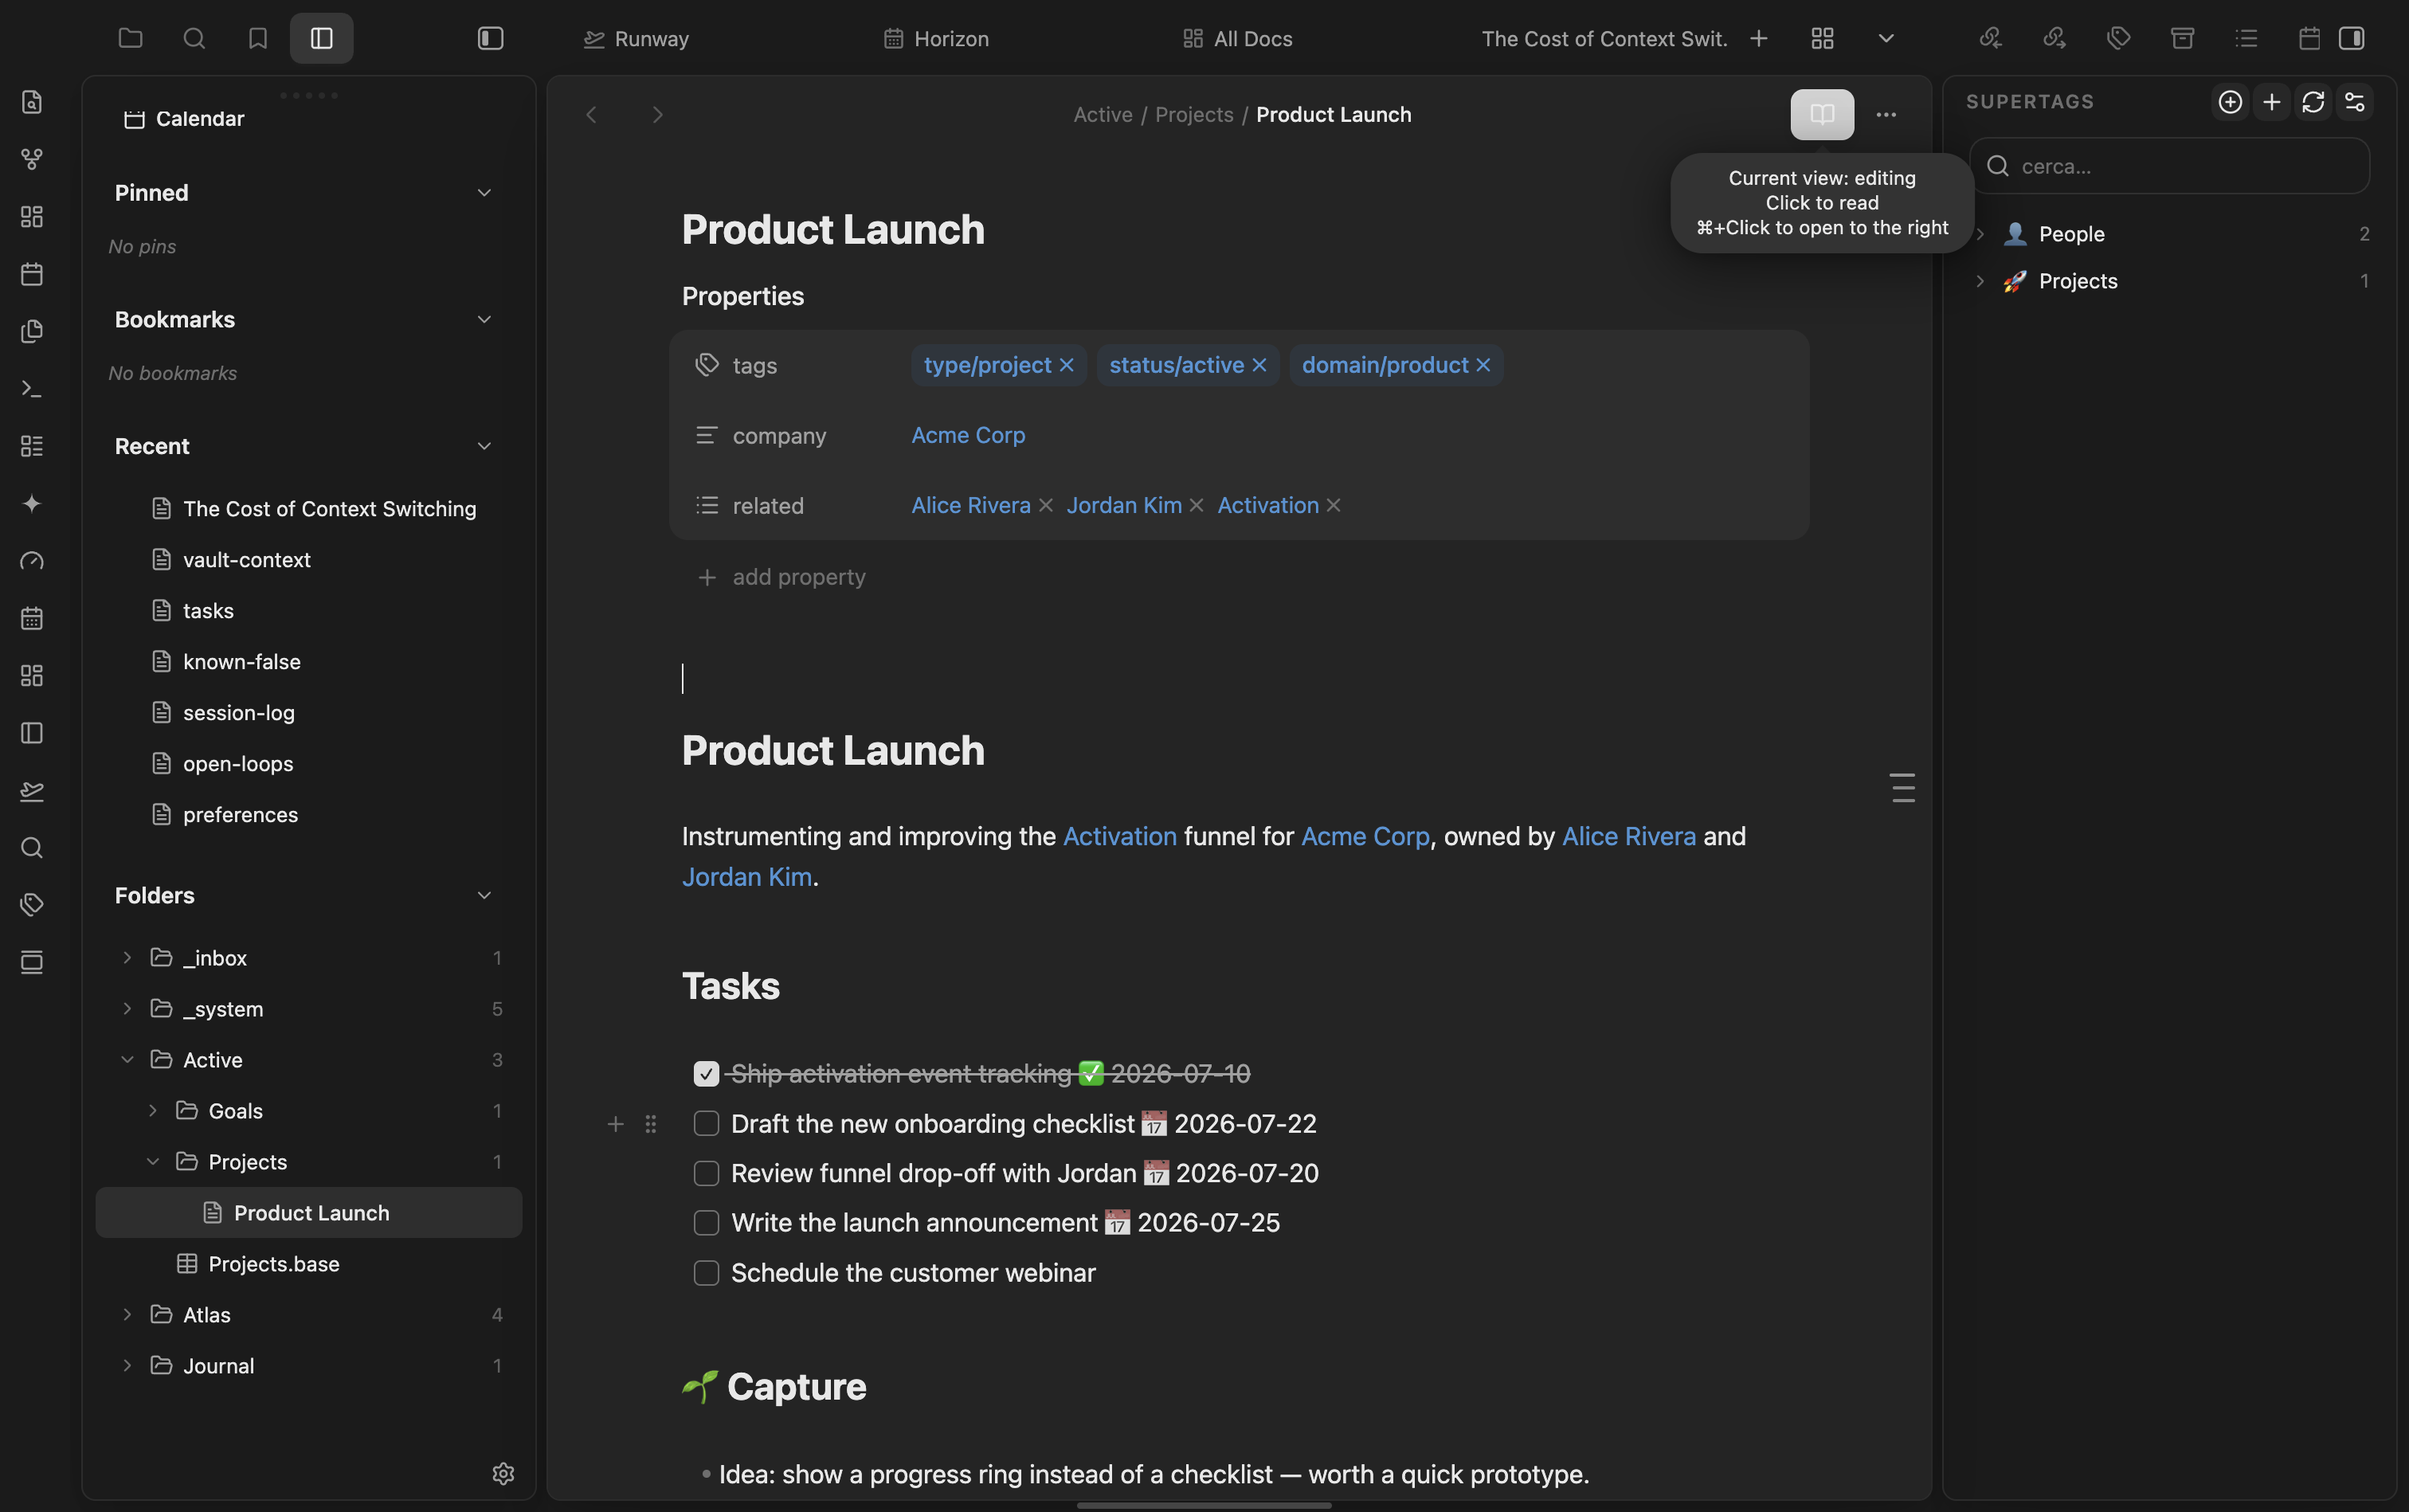
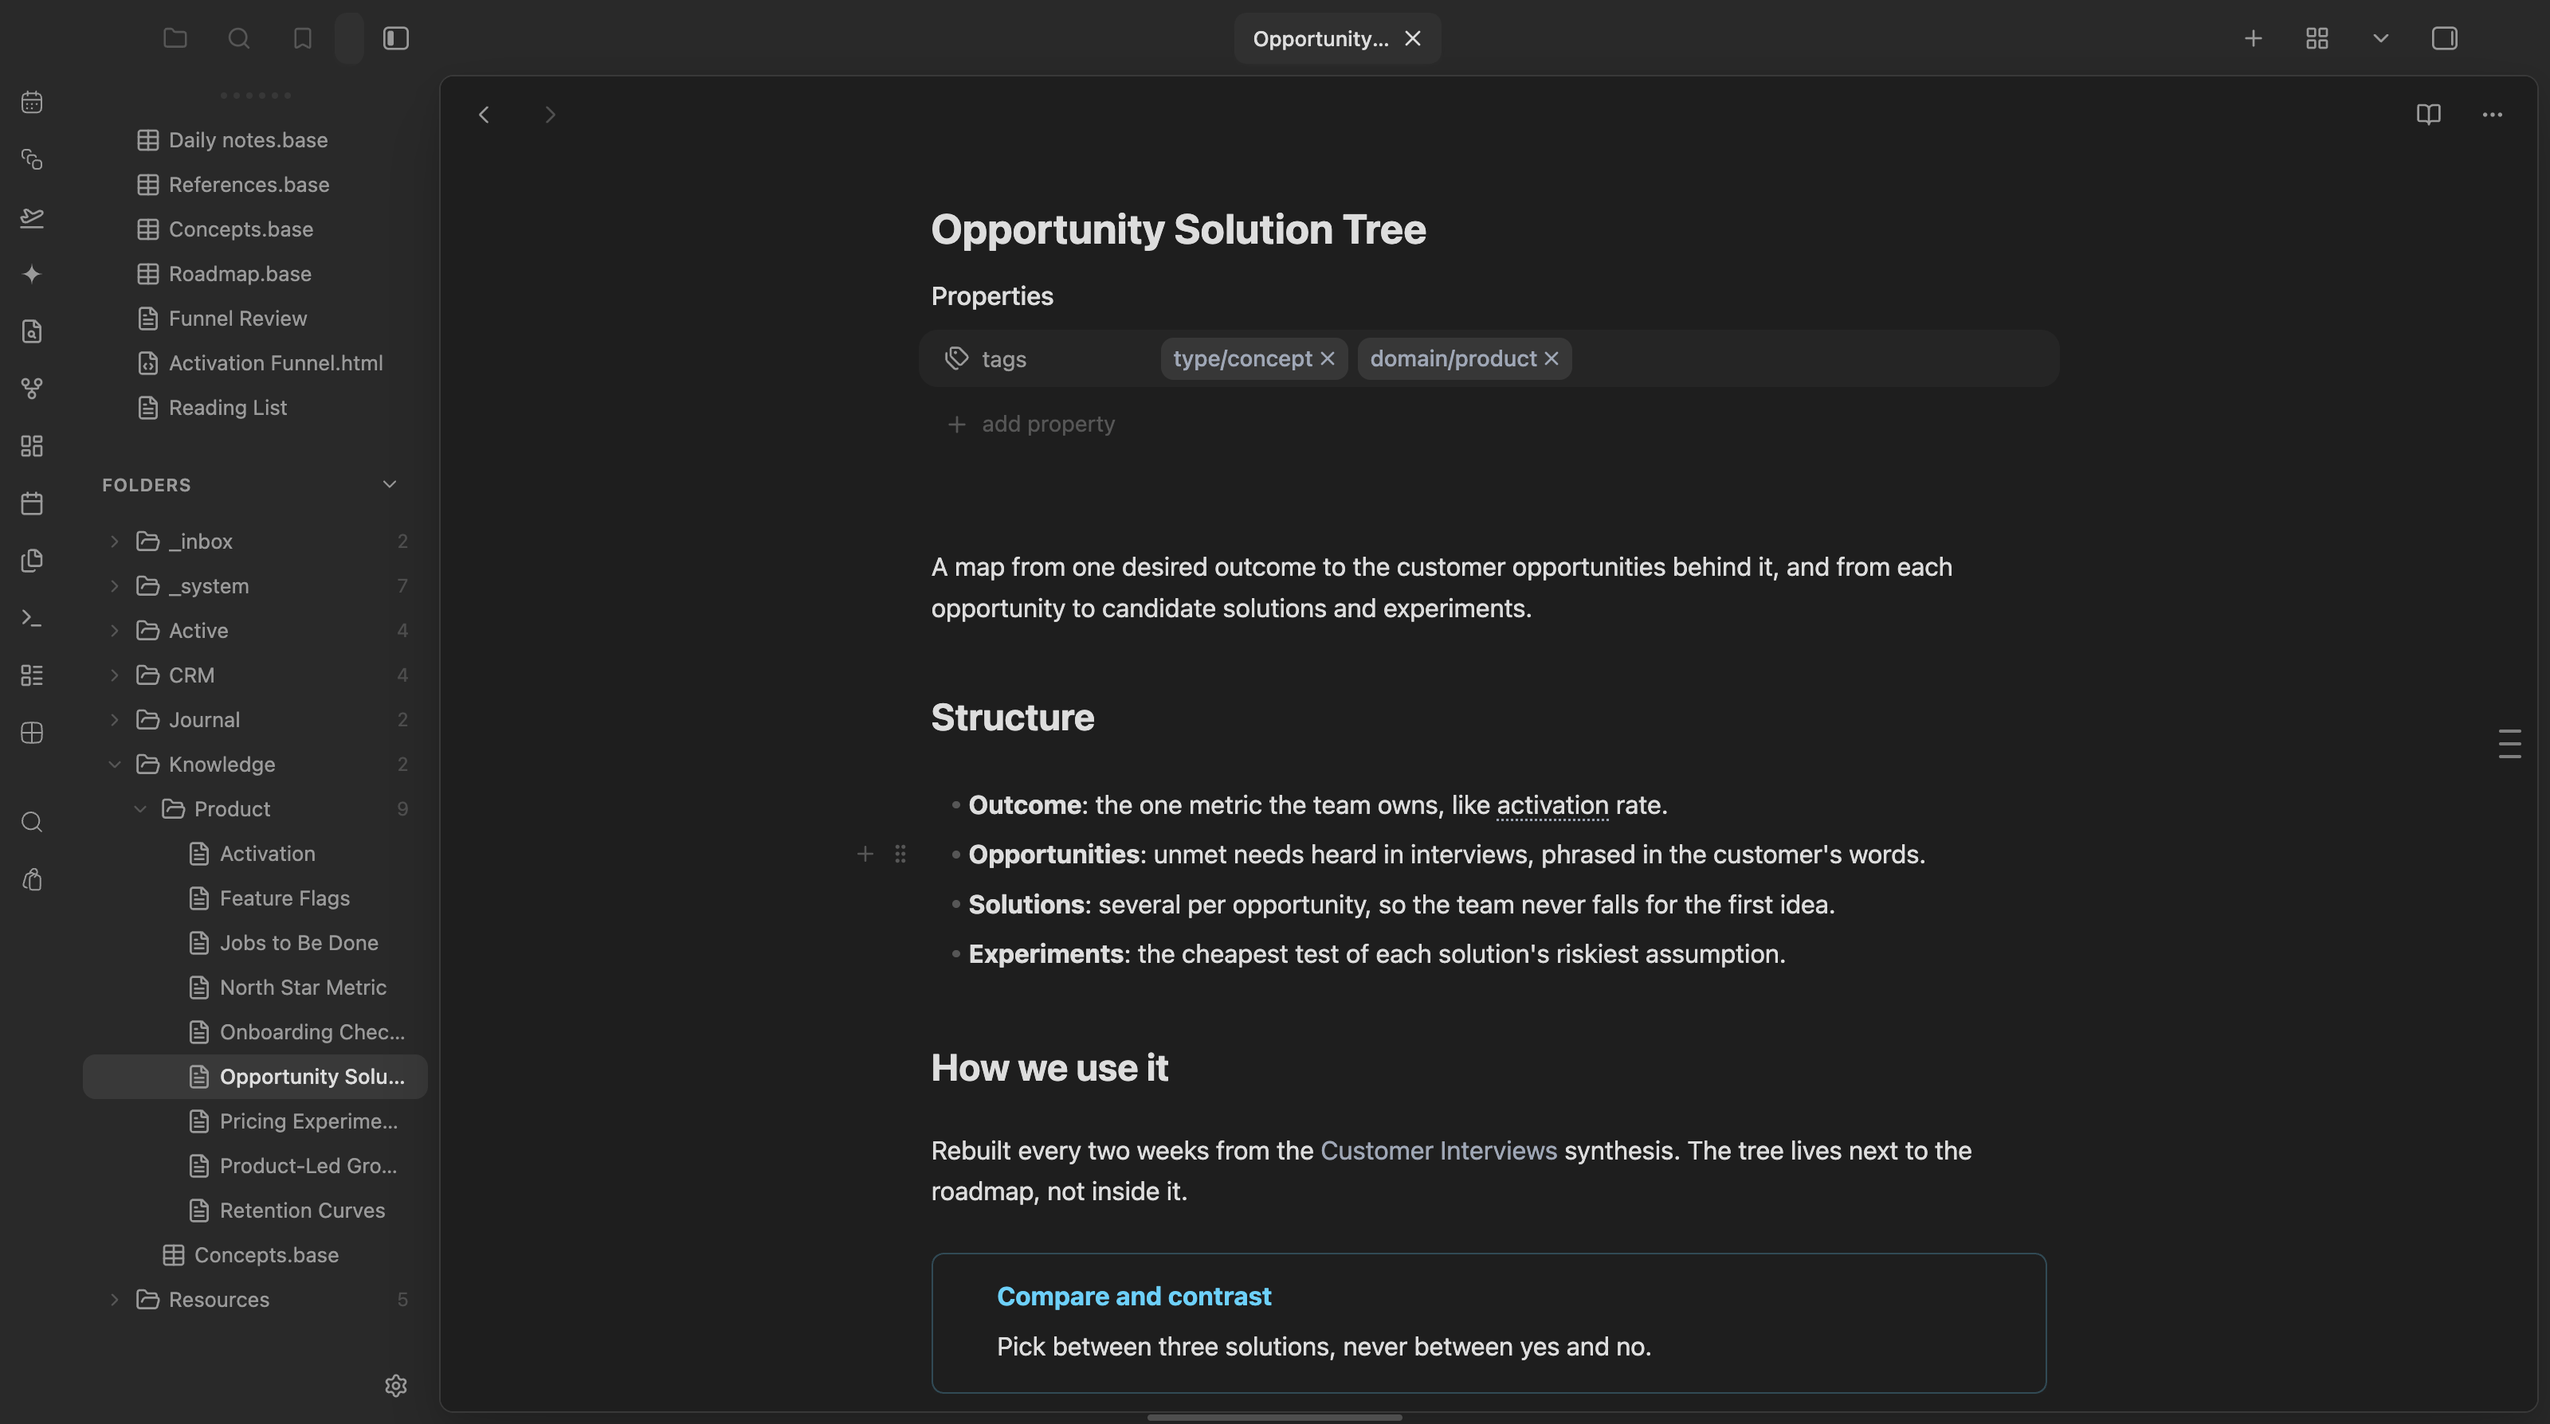
docs: real screenshots from the sample vault in the README
Captured in Obsidian with Cosmos and the current plugin build, on the
public obsidianverse sample vault.

diff --git a/README.md b/README.md
@@ -23,6 +23,8 @@ The handle only appears in Live Preview on desktop. It's inert in Reading view a
 
 ## Outline
 
+![Composer outline panel expanded next to a note](docs/outline.png)
+
 - **Resting tick strip**: thin ticks pinned to the right edge, one per heading. Tick length and opacity scale with heading level.
 - **Titled panel**: hover the strip (or tap it on touch) to expand a panel listing the headings, indented by level. Click a title to scroll there.
 - **Live tracking**: the heading you are reading is highlighted in the accent color as you scroll.
